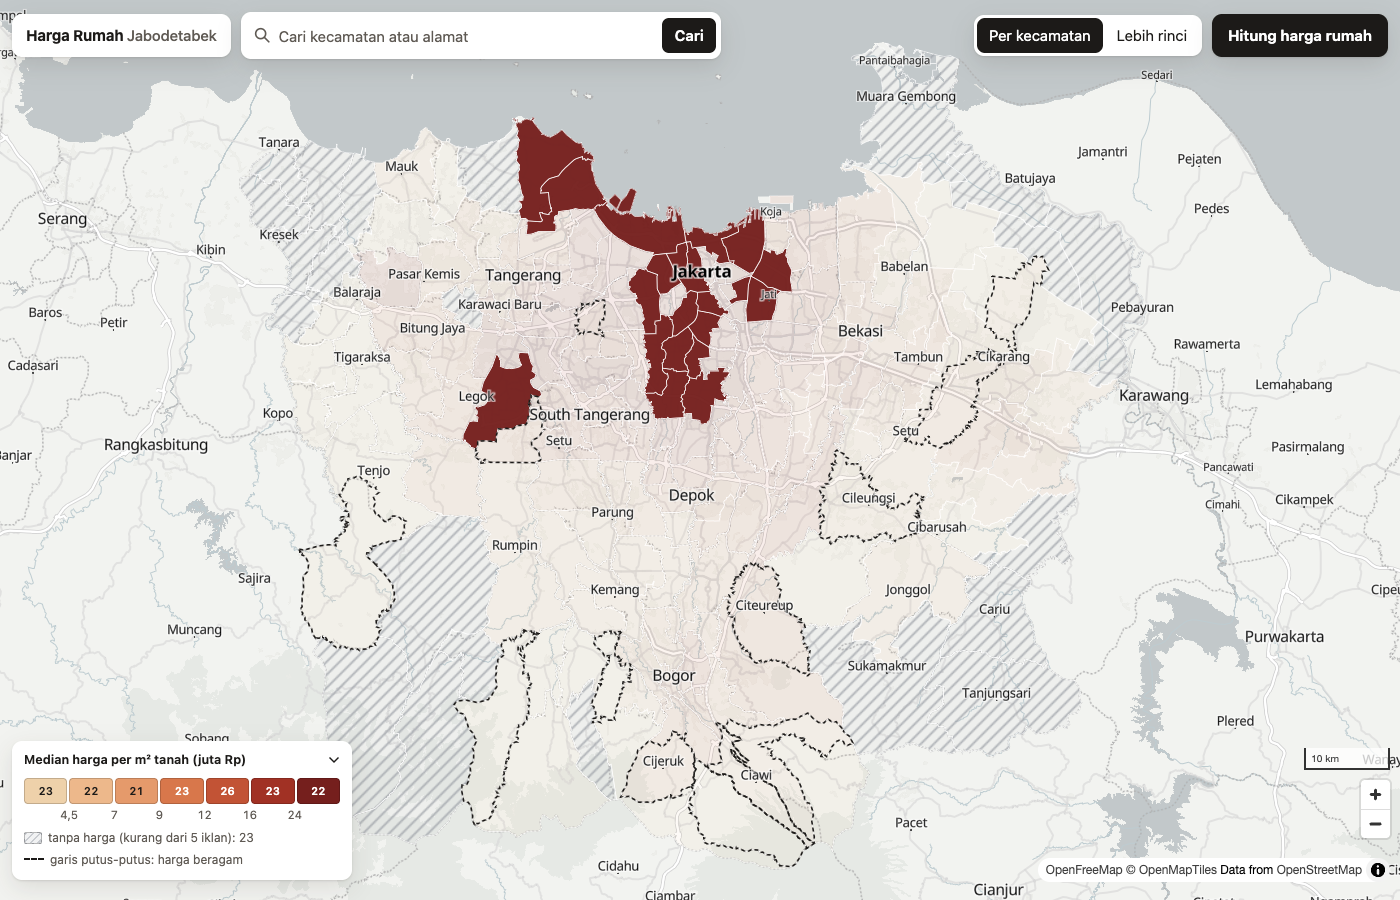
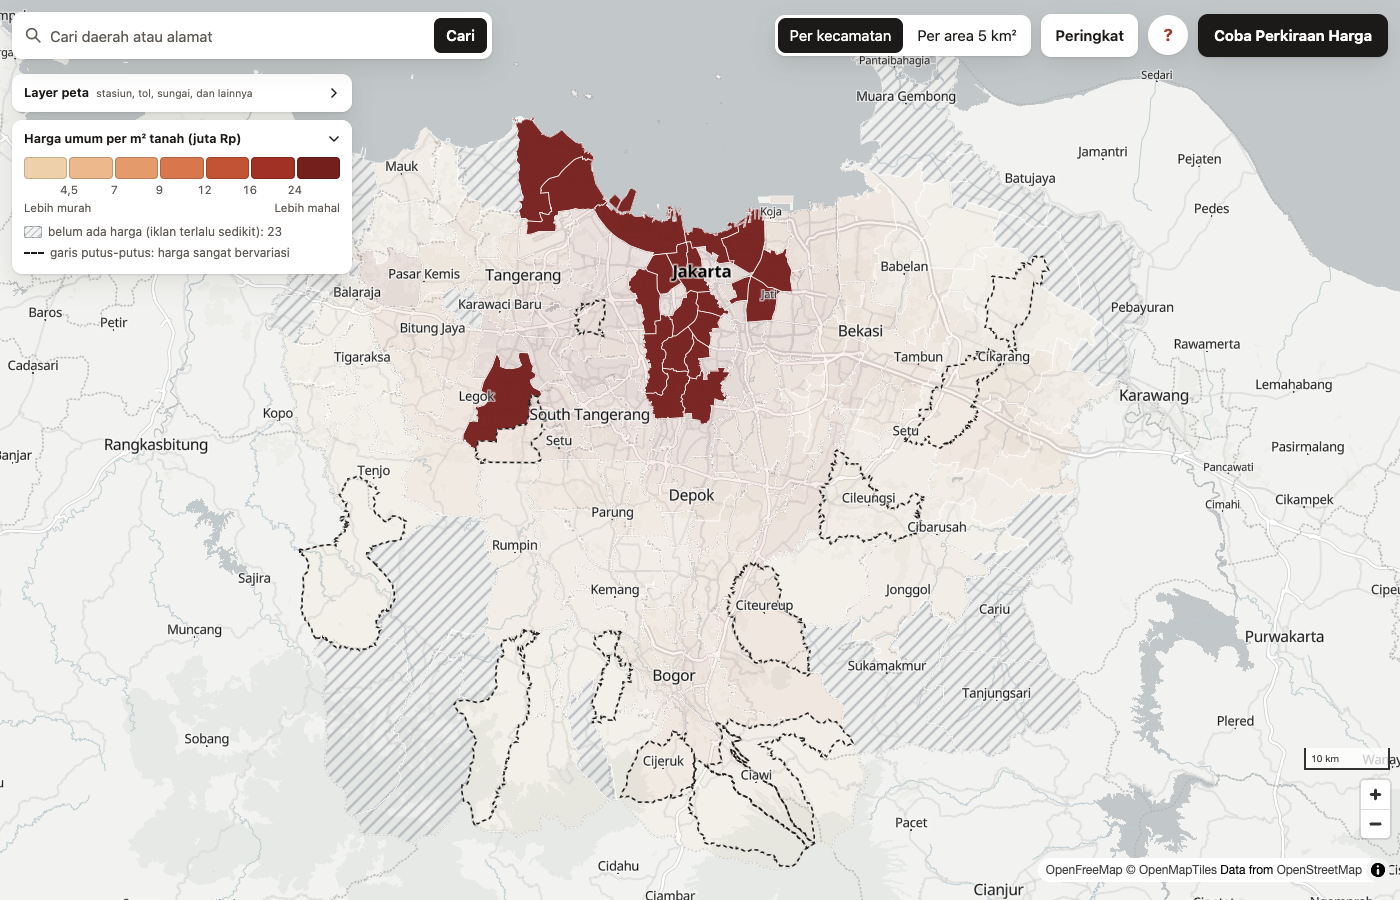
Update from the private repo at 80e146f

Changed region(s): [[0.0, 0.0, 0.5221, 0.3111], [0.0, 0.8089, 0.2764, 0.9956], [0.5529, 0.0, 0.9829, 0.0622]]

diff --git a/README.md b/README.md
@@ -3,27 +3,44 @@
 An asking-price map and estimator for houses in Jabodetabek (Jakarta, Bogor, Depok, Tangerang, Bekasi): where prices per m² of land sit,
 and what a house like yours would ask, with an honest range around the number.
 
-**Live demo:** coming soon (the site is built and tested; deployment comes next). **Model card:** [docs/model-card.md](docs/model-card.md).
+**Live demo:** [harga-rumah-jabodetabek.rlukafiardi.workers.dev](https://harga-rumah-jabodetabek.rlukafiardi.workers.dev) (in Bahasa Indonesia, free to use).
+**Model card:** [docs/model-card.md](docs/model-card.md).
 
-![Asking price per m² of land by kecamatan](reports/figures/price_map_kecamatan.png)
+![The site on first visit](reports/figures/site_welcome.png)
 
 ## The site
-A static page in Bahasa Indonesia (MapLibre on a free OpenStreetMap-based basemap, no build step). A full-screen map of the median price per m² of land by
-kecamatan, with a finer H3 view; one warm sand-to-deep-red ramp in seven equal-count classes; hatched areas where there are too few listings to show a
-price; dashed outlines where prices are mixed. The legend is interactive: point at a tier and everything else fades, so "where are the expensive areas" is
-answered without reading numbers. Selecting an area pins a card that compares its middle half of prices with the Jabodetabek median.
+A static page in plain, casual Bahasa Indonesia (MapLibre on a free OpenStreetMap-based basemap, no build step, served from Cloudflare). It is written for
+people who have never seen the data, so it avoids statistics words and says what a number means next to it.
 
-Search matches kecamatan names while you type (from the map data itself) and looks up addresses and places only when you press Enter, through the free
-OpenStreetMap geocoder, whose policy forbids search-as-you-type: results are cached and requests are spaced at least a second apart. The estimate panel
-takes a pin from a click, a search result or the browser's location, calls the model API and shows the likely range, the wide range and the estimate on one
-bar, with the price per m² underneath and warnings translated from codes the API returns. A browser test drives all of this in real Chrome, including a
-phone ([web/](web/)).
-
-![The site with an estimate](reports/figures/site_estimate.png)
+- **Price map.** Median price per m² of land by kecamatan, with a finer 5 km² view. One warm sand-to-deep-red ramp in seven equal-count classes; hatched
+  where there are too few listings to show a price; dashed outlines where prices are mixed. The legend is interactive: point at a tier and the rest fades.
 
 ![Pointing at the top price tier](reports/figures/site_isolate.png)
 
-## Result
+- **Find, rank, compare, budget.** Search matches kecamatan names while you type and looks up addresses only on Enter (the free geocoder's policy forbids
+  search-as-you-type, so results are cached and spaced out). A ranking panel lists areas by price and filters by city or regency; two or three areas can be
+  compared side by side; and a budget filter lights up the areas where a typical house on your land size fits what you can spend.
+
+![Areas that fit a budget](reports/figures/site_budget.png)
+
+- **Layers to consider.** Stations (KRL, MRT, LRT) and rail lines, bus stops, toll gates, rivers, malls, hospitals and universities from OpenStreetMap, and a flood
+  hazard layer from BNPB's InaRISK at its own 30 m detail (a 0.2 MB image). The three flood levels are grouped by me from BNPB's 0 to 1 index and the legend
+  says so; blank means "not marked as hazardous", not "safe".
+
+![Flood hazard layer](reports/figures/site_flood.png)
+
+- **Estimate in three steps.** Place a pin (click, search, or the browser's location), describe the house, read the result: a price, the range it usually falls
+  in, and a bar that shows the wider possible range. Beside it: **what pushes the price up or down** compared with a typical house, a box to **compare an
+  ad price** with the estimate, and a **share link** that reopens the same estimate. Warnings (take-over listings, auctions, large plots) are plain
+  sentences, and the form refuses impossible values (no negative rooms) with a message under the field.
+
+![An estimate and what drives it](reports/figures/site_estimate.png)
+
+- **Phone first.** Panels become bottom sheets and the toolbar stays on one row. A browser test drives all of this in real Chrome, on a phone viewport too
+  ([web/](web/)), and runs against the live site under its real security headers.
+
+![The estimate sheet on a phone](reports/figures/site_phone.png)
+
 ## Result
 On 562 listings the final model never saw (set aside before the final model was chosen, scored once):
 
@@ -57,30 +74,44 @@ and the same house listed twice differs by only about 6%, so the limit is what t
   roads and land use within 500 m, size and rooms, agent-filled specs) plus a text score from the title and description. Target is
   log price per m² of land, so the price is land area times the prediction.
 - **Ranges.** Split-conformal ranges from out-of-fold spatial errors, by city, with a wider band for plots over 300 m².
+- **Explaining one estimate.** Each group of inputs (location, surroundings, land, building, rooms, floors, notes, details) is swapped for the typical
+  house's values and the three-model estimate re-run; the change is that group's effect. It is approximate (inputs are correlated, so effects do not add up)
+  and the page says so.
 - **Error analysis.** The worst 10% of listings carry 40% of the error: the cheapest quarter is over-predicted, plots over 300 m² are
   hardest, and listings with missing floors are noisier ([error analysis](reports/tables/error_analysis.csv)).
-- **Serving.** A FastAPI service computes the same features as training (a parity test checks 40 real listings to 1e-9), answers in
-  about 50 ms, validates input, rate-limits and restricts browser origins. It is packaged as a Docker image of about 300 MB compressed and
-  gives the same estimate on macOS and Linux.
+- **Serving.** A FastAPI service computes the same features as training (a parity test checks 40 real listings to 1e-9) and runs on Google Cloud Run
+  (Jakarta region, one small instance) from a Docker image of about 300 MB compressed. An estimate takes about 0.3 s there, measured from the request
+  log; the global request cap is sized from that number so a public service stays inside the free tier.
+- **Security review before launch.** I probed the API with hostile input and fixed what it found: NaN and Infinity gave a server error (now a 422), there
+  was no body-size limit (now 32 KB), the per-client rate limit could be bypassed with a forged header when the service is reached directly (so there is also a
+  global cap, and a post-deploy check confirms the real client address is used behind Cloud Run), and the image ran as root (now a normal user). The site
+  sends a strict Content-Security-Policy and the browser test runs under it. Dependencies are clean (`pip-audit`, `npm audit`). Measured, not assumed: about 1,000
+  queries are enough to clone the model to within about 4%, which no public estimate API can prevent, so the defence is bounding cost; and the served model
+  does not reproduce training listings (its error on them is the same as on unseen houses).
 - **Monitoring.** A weekly health report scores the live model on newly listed houses (the asking price is known at once) with
   alerts for error, bias, input drift and parse failures, tested by a quiet replay and a forced failure
   ([example](reports/figures/weekly_error.png)).
-- **Engineering.** 45 tests, CI on Google Cloud Build, locked dependencies, a model card and an architecture decision record.
+- **Engineering.** 64 tests plus 21 site tests and an end-to-end browser test, CI on Google Cloud Build, locked dependencies, a model card and an
+  architecture decision record. Deploys are explicit commands that refuse to run without a confirmation flag, and the public repository is generated by
+  an export that allow-lists files and fails on source names, personal details or credential-like files.
 
 ## Data
 Listings from an Indonesian property portal (about 4,000 usable houses over 17 months, collected politely: 3 s per request, identifying
 User-Agent, stopping at any gate), OpenStreetMap (ODbL), official BIG administrative boundaries and BNPB flood hazard. **No
 listing-level data, descriptions or page contents are published, here or on the site**: only kecamatan and H3 aggregates with at least 5
-listings per area, and model estimates. The crawler is not part of this repository.
+listings per area, public OpenStreetMap places and the flood image, and model estimates. Data you type into the estimate form is used to compute the
+answer and is not stored. The crawler is not part of this repository.
 
 ## Limits
 - Asking prices, not transaction prices; asking prices run above what houses sell for.
 - Listings whose slug names only a street or a cluster are under-sampled, and 23 kecamatan have fewer than 5 listings.
 - The text score is the strongest input and is learned from full descriptions, so a short note typed into the form is a weak signal.
 - The data holds only still-active listings (older ones have mostly sold), so slow-selling houses may be over-represented.
+- The flood layer is BNPB's index at 30 m in three levels I grouped; it is a general picture, not a survey of one house. Check the location and the official map before buying.
+- The API is capped at 12 estimates a minute in total to stay free, so a busy moment can show "wait a minute".
 
 ## Repository
 `src/features` (distances, OSM context, kecamatan lookup), `src/modeling` (ensemble, CV, ranges, evaluation, experiments),
 `src/analysis` (reports, audits, backtest), `src/pipeline` (drift checks, weekly report), `src/serving` (estimator and API),
-`tests/`, `reports/figures` and `reports/tables` (aggregate results only). The data and the crawler are not included, so the code is
-for reading and does not run end to end.
+`web/` (the site and its tests), `tests/`, `reports/figures` and `reports/tables` (aggregate results only). The data and the crawler are not
+included, so the code is for reading and does not run end to end.
